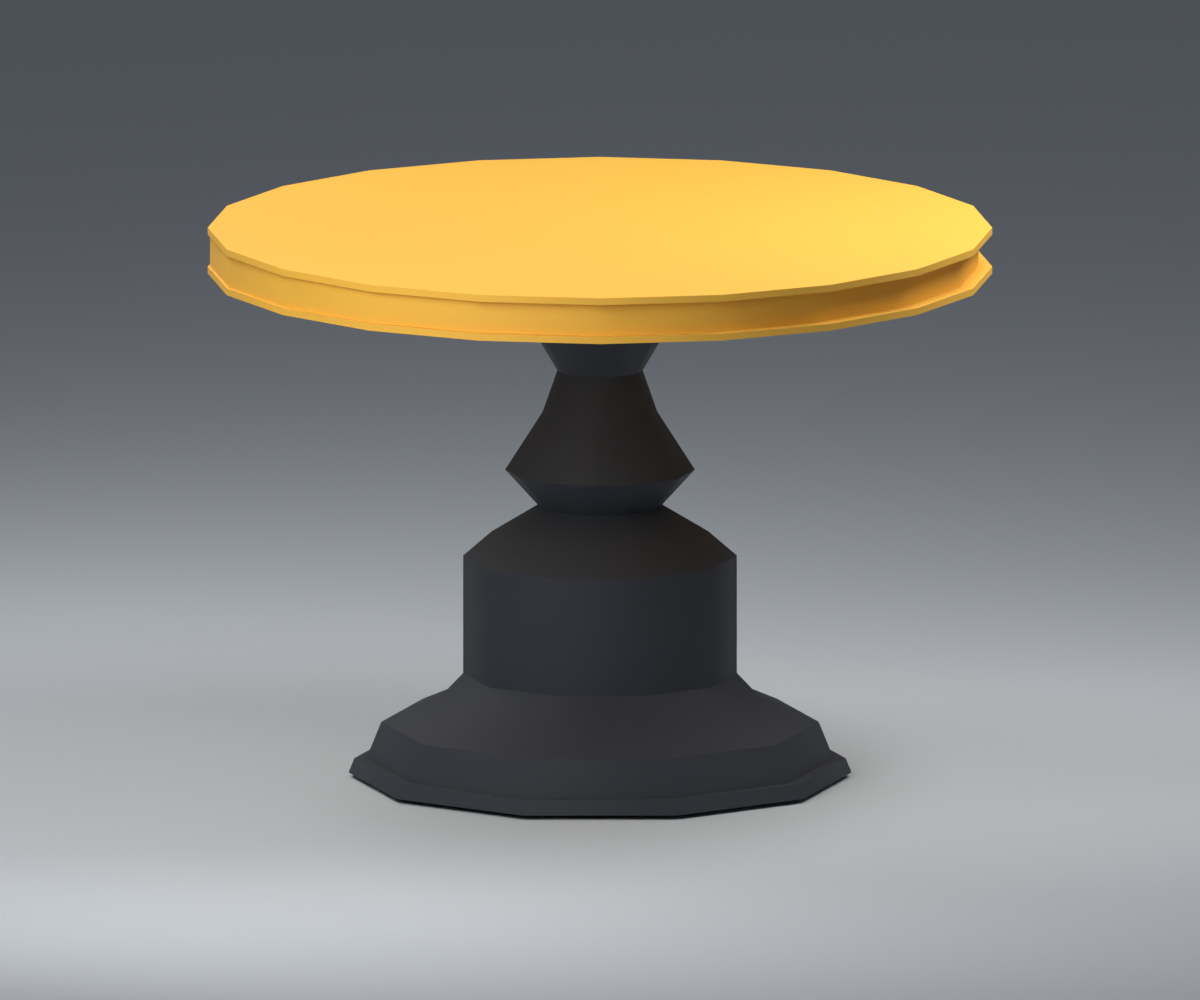
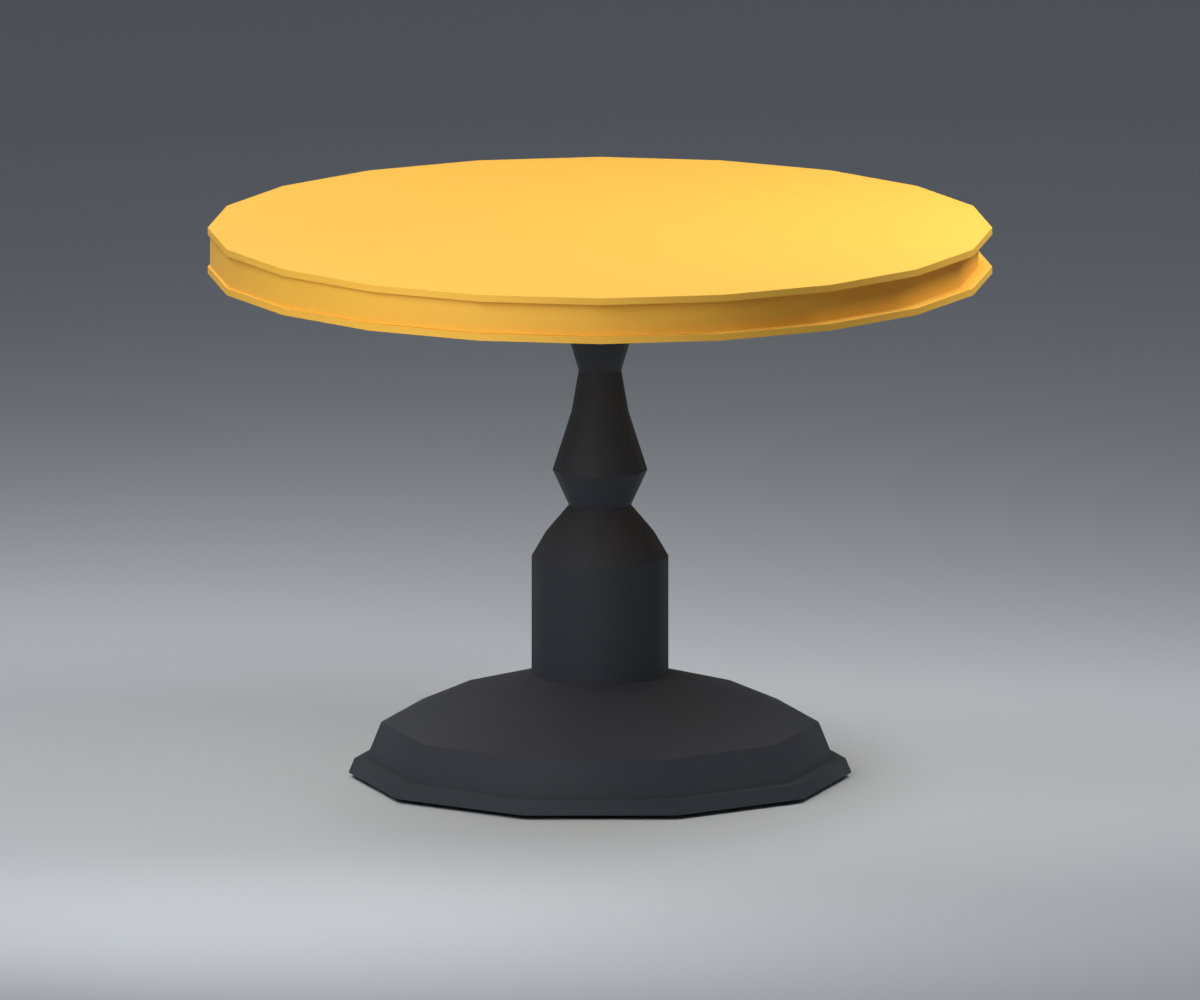
Slim cafe table stem while preserving height and foot

Changed region(s): [[0.37, 0.341, 0.6167, 0.682]]

diff --git a/art/playground_plaza/table/export_and_verify.py b/art/playground_plaza/table/export_and_verify.py
@@ -15,6 +15,8 @@ SOURCE = DIRECTORY / "cafe-table.blend"
 EXPORT = DIRECTORY / "export" / "cafe-table.glb"
 REPORT = DIRECTORY / "export" / "verification.json"
 TOLERANCE = 0.0001
+STEM_HORIZONTAL_SCALE = 0.5
+STEM_ORIGINAL_HEIGHT = 0.247604
 
 
 def require(condition, message):
@@ -105,18 +107,25 @@ def original_geometry():
     require(extension > 0, "Pedestal must be taller than normalized original")
     expected = {}
     for name, vertices in (("Tabletop", top), ("Pedestal and Base", support)):
-        expected[name] = [Vector((x * scale, -z * scale,
-                                 (y - ground) * scale
-                                 + (extension if name == "Tabletop" or y >= .320398 else 0)))
-                          for x, y, z in vertices]
+        expected[name] = []
+        for x, y, z in vertices:
+            horizontal = scale
+            if name == "Pedestal and Base" and y >= STEM_ORIGINAL_HEIGHT:
+                horizontal *= STEM_HORIZONTAL_SCALE
+            point = Vector((x * horizontal, -z * horizontal, (y - ground) * scale))
+            if name == "Tabletop" or y >= .320398:
+                point.z += extension
+            expected[name].append(point)
     require(len(top) == 120 and len(support) == 180, "Source components changed")
     return expected, {
         "original_hashes": hashes, "uniform_scale": scale,
         "normalized_original_height": height, "pedestal_extension": extension,
         "tabletop_thickness": (max(p[1] for p in top) - min(p[1] for p in top)) * scale,
         "extended_original_ring_heights": [.247605, .320399],
-        "preservation": "All vertices match the uniformly normalized original; only the upper "
-                        "pedestal and complete tabletop are translated upward",
+        "stem_horizontal_scale": STEM_HORIZONTAL_SCALE,
+        "stem_first_original_ring_height": .247605,
+        "preservation": "Source-derived positions preserve tabletop, foot and all heights; "
+                        "the extended stem is halved in both horizontal axes",
     }
 
 
@@ -279,8 +288,9 @@ def main():
         "exported_mesh_surfaces": surfaces, "gltf_orientation": "Y up; ground-centered origin",
         "evidence": "AUTO: Blender source and GLB round trip; no Godot import/runtime evidence",
         "checks": ["approved OBJ/MTL hashes", "closed positive-volume geometry",
-                   "no degenerate faces", "all original vertices preserved after normalization",
-                   "only straight pedestal collar extended", "tabletop and base shapes preserved",
+                   "no degenerate faces", "source-derived vertex preservation",
+                   "straight pedestal collar extended", "stem width and depth halved",
+                   "tabletop, foot and all vertex heights preserved",
                    "flat broad top at height 3 with original normalized thickness",
                    "grounded base", "applied transforms", "two materials and mesh surfaces",
                    "approved golden-yellow and charcoal colors", "no external dependencies",

diff --git a/art/playground_plaza/table/README.md b/art/playground_plaza/table/README.md
@@ -1,7 +1,7 @@
 # Playground plaza cafe table
 
 Editable variant of the supplied Quaternius round table with a taller pedestal,
-golden-yellow tabletop and charcoal support/base. The self-contained GLB is for
+slimmer stem, golden-yellow tabletop and charcoal support/base. The self-contained GLB is for
 later Godot integration; the running game does not load this asset.
 
 ## Files
@@ -22,8 +22,10 @@ Godot import and standalone builds. There are no colliders, runtime bindings or 
 
 The tabletop is 4.25 wide and deep, with a broad flat top at height 3 and thickness
 approximately 0.252256 in normalized authoring units. Its original 20-sided outline,
-edge profile and foot geometry remain intact after uniform scaling. Only the original
-straight pedestal collar is lengthened, by approximately 0.487797 units.
+edge profile and foot geometry remain intact after uniform scaling. The original
+straight pedestal collar is lengthened by approximately 0.487797 units. The full stem
+profile from that lower collar upward is 50% narrower in both horizontal axes than
+the first adapted version. All vertex heights remain unchanged; the foot retains its width.
 
 One planning character height is 1. These dimensions do not prescribe the existing
 character's world scale, collision height, jump reach or final-camera composition.
@@ -37,9 +39,9 @@ materials: golden yellow `#F4B940` and charcoal `#30333B`, respectively.
 ## Editing and export
 
 Open the source and edit the named parts under `Cafe Table Asset`. The root, collection
-and part names are used by the export checks. The original OBJ normals and component
-geometry are retained. The separate `Review Studio - Not Exported` collection holds
-the inspection camera, ground and lights.
+and part names are used by the export checks. Tabletop and foot geometry are retained;
+the narrowed support has refreshed normals. The separate `Review Studio - Not Exported`
+collection holds the inspection camera, ground and lights.
 
 Run these from this directory with Blender's executable assigned to `$blender`:
 
@@ -53,7 +55,7 @@ Save edits before export. The exporter opens the saved source, exports only the 
 collection and imports the GLB into a disposable scene. It never saves that scene
 over the source and does not change a live Blender session.
 
-The verifier requires the approved dimensions, palette and original shape preservation.
+The verifier requires the approved dimensions, palette, stem reduction and preserved top/foot.
 A later change to these delivery constraints must update the checks and documentation
 together. Keep the pinned original OBJ/MTL unchanged.
 

diff --git a/art/playground_plaza/table/source/PROVENANCE.md b/art/playground_plaza/table/source/PROVENANCE.md
@@ -20,12 +20,17 @@ The original two connected components become `Tabletop` and `Pedestal and Base`.
 Uniform scaling normalizes tabletop width to 4.25. After shifting the base to ground,
 the straight pedestal collar between original Y heights 0.247605 and 0.320399 is
 extended by approximately 0.487797. The upper pedestal and complete tabletop move up
-by that amount; the remaining geometry retains its uniformly scaled source shape.
+by that amount.
+
+The stem from original Y height 0.247605 upward is narrowed to 50% of
+its normalized width and depth. The foot below that collar retains its source shape,
+and every vertex keeps its height from the initial adaptation. Support normals are refreshed.
 The tabletop top is at height 3 and its thickness remains approximately 0.252256.
 
 The source Wood material is replaced with golden-yellow tabletop and charcoal
 pedestal/base materials. No braces, new shape details, textures or collision are added.
-The exporter checks the source hashes and adapted geometry against the original vertices.
+The exporter checks the source hashes and adapted geometry against the original vertices,
+including the stem reduction and preserved tabletop, foot and heights.
 
 ## License evidence
 

diff --git a/docs/pending-reviews.md b/docs/pending-reviews.md
@@ -10,8 +10,9 @@ removes it. The evidence labels are defined in
 
 - Owner visual approval of the
   [adapted table source and previews](../art/playground_plaza/table/README.md):
-  taller pedestal, preserved round top and base, golden-yellow/charcoal palette and
-  near-frontal silhouette. Automated source/export checks do not establish creative approval.
+  taller pedestal with a 50% narrower stem, preserved round top and foot,
+  golden-yellow/charcoal palette and near-frontal silhouette.
+  Automated source/export checks do not establish creative approval.
 - After separate scene integration, `[GODOT-RUNTIME]` materials and final-camera inspection,
   and `[HUMAN-PLAY]` middle-tier reachability, ten-player readability and game feel.
   Integrated rendering performance remains unmeasured; no import/gameplay evidence is supplied.
